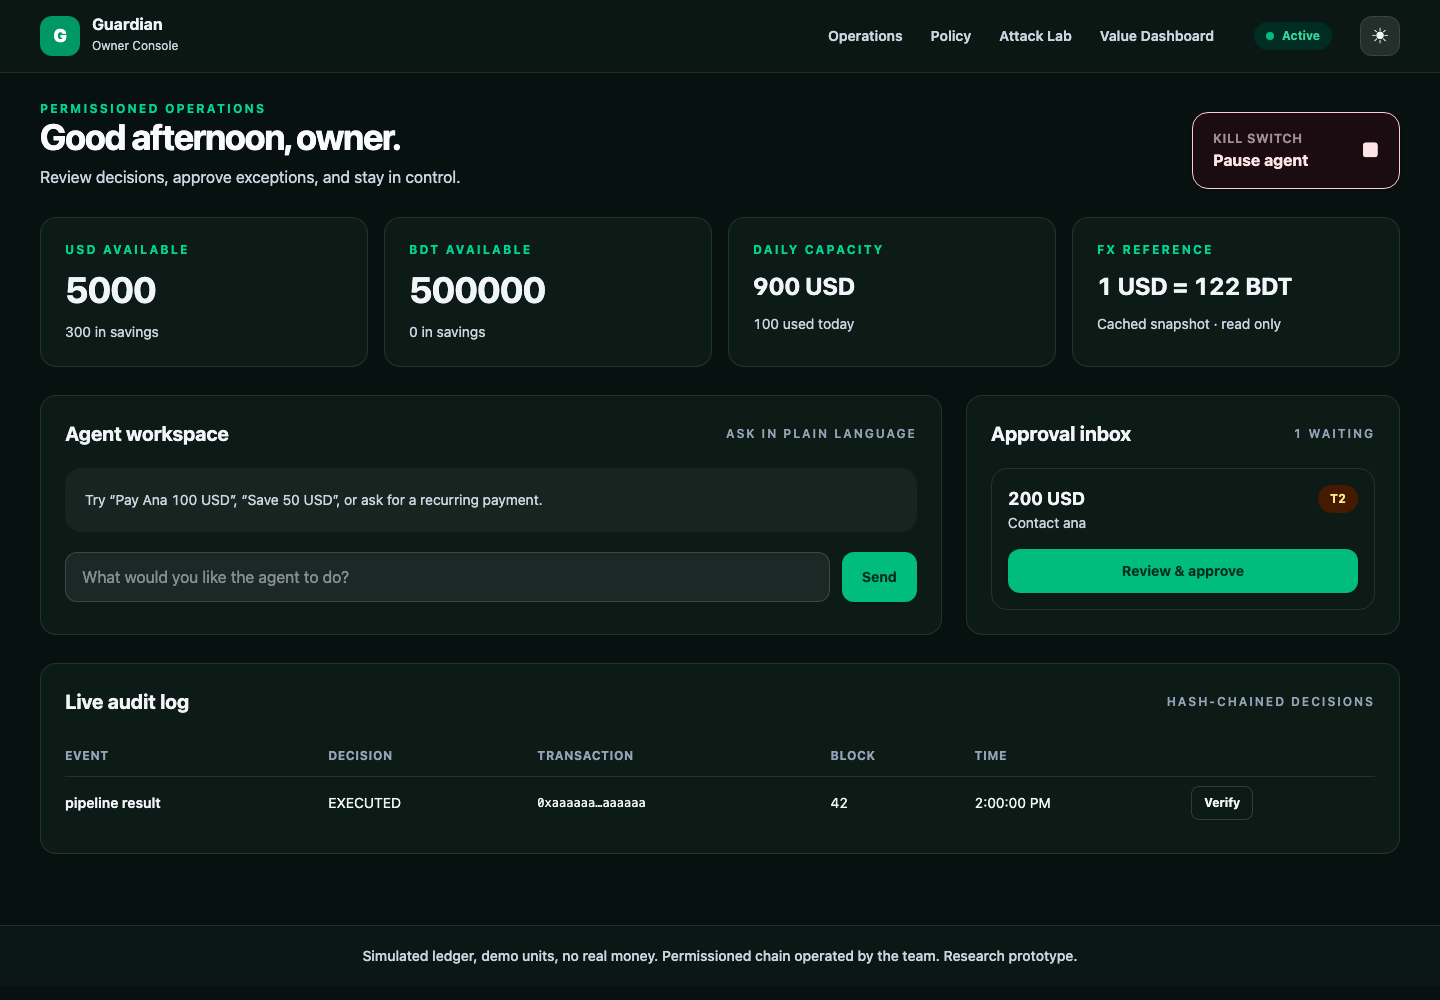
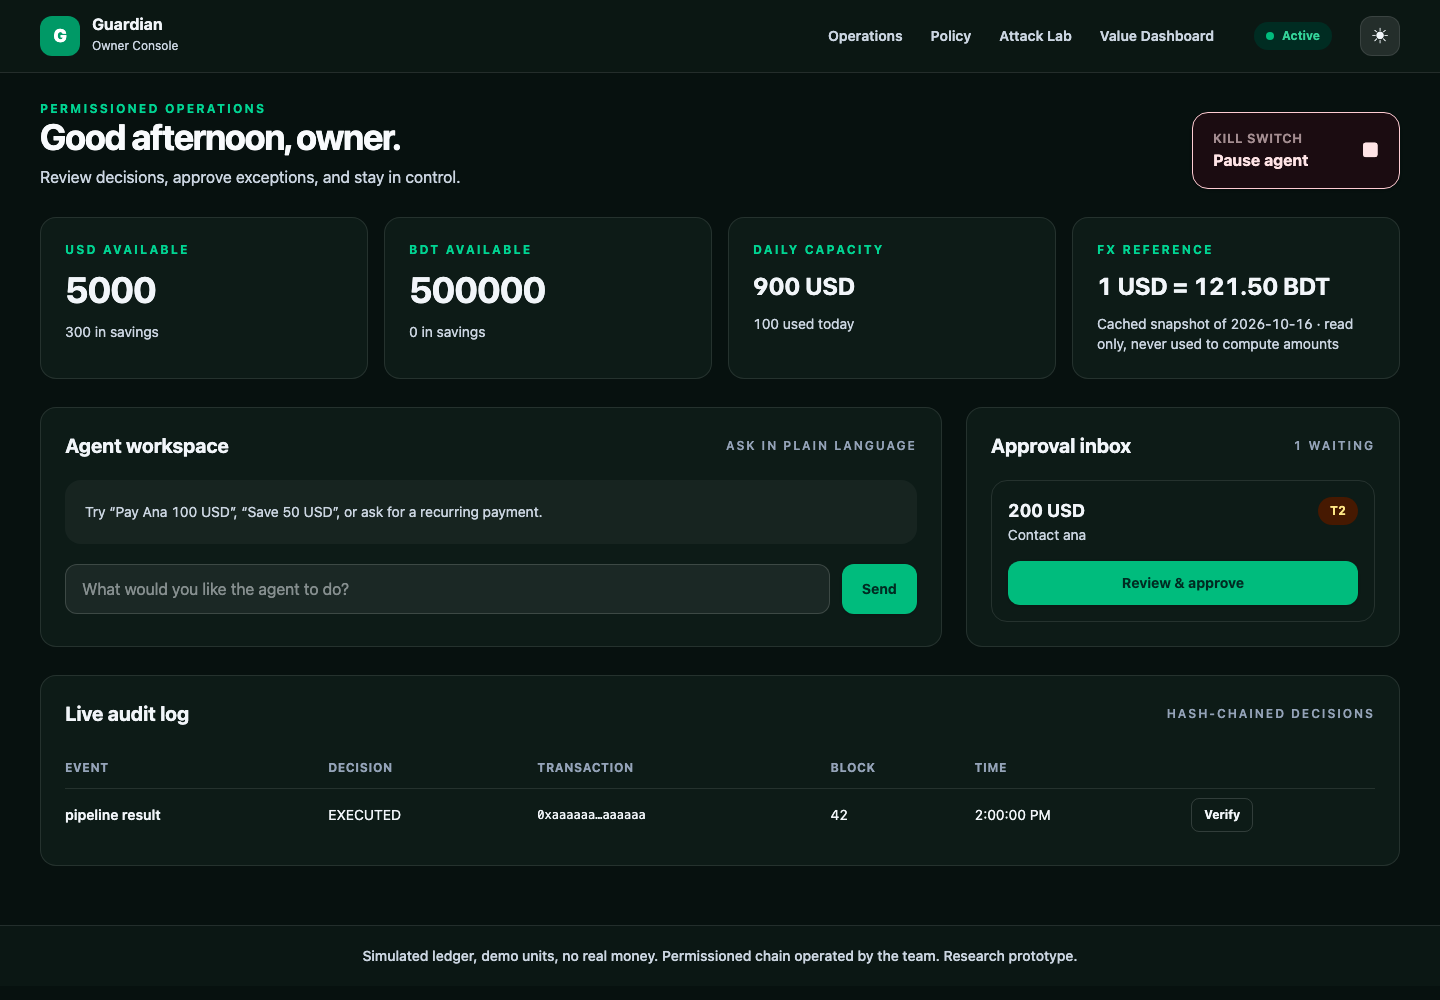
fix: make invariant I5 falsifiable and show the real FX snapshot
I5 asserted that the wallet's savings balance was at least zero, an
unsigned comparison that can never fail. It now requires that no
account other than the wallet holds savings in either currency and that
wallet savings never fall below the total the handler deposited; a
deliberate over-count in the handler makes it fail.

The owner console's FX tile showed 1 USD = 122 BDT, which disagreed
with the Risk Intel snapshot (121.50). It now shows the snapshot rate
and date and states that no amount is computed from it.

diff --git a/web/src/App.tsx b/web/src/App.tsx
@@ -69,7 +69,7 @@ function Dashboard({ state, pending, audit, refresh }: { state: State; pending: 
     <section className="flex flex-col justify-between gap-3 md:flex-row md:items-end"><div><p className="eyebrow">Permissioned operations</p><h1 className="page-title">Good afternoon, owner.</h1><p className="mt-2 text-slate-500 dark:text-slate-400">Review decisions, approve exceptions, and stay in control.</p></div><KillSwitch paused={state.paused} refresh={refresh}/></section>
     <section className="grid gap-4 md:grid-cols-2 xl:grid-cols-4">
       <BalanceCard label="USD available" value={state.usdBalance} savings={state.usdSavings}/><BalanceCard label="BDT available" value={state.bdtBalance} savings={state.bdtSavings}/>
-      <Metric label="Daily capacity" value={`${state.remainingDaily} USD`} sub={`${state.spentToday} used today`}/><Metric label="FX reference" value="1 USD = 122 BDT" sub="Cached snapshot · read only"/>
+      <Metric label="Daily capacity" value={`${state.remainingDaily} USD`} sub={`${state.spentToday} used today`}/><Metric label="FX reference" value="1 USD = 121.50 BDT" sub="Cached snapshot of 2026-10-16 · read only, never used to compute amounts"/>
     </section>
     <section className="grid gap-6 xl:grid-cols-[1.35fr_.65fr]"><Chat refresh={refresh}/><ApprovalInbox items={pending} refresh={refresh}/></section>
     <AuditLog entries={audit}/>
